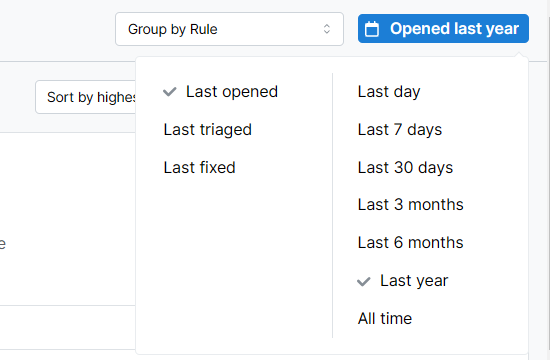
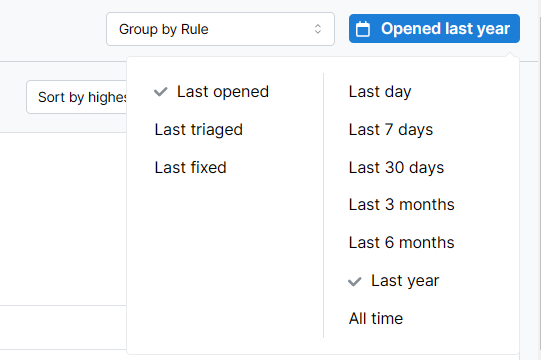
edit Findings page

diff --git a/docs/semgrep-code/findings.md b/docs/semgrep-code/findings.md
@@ -45,16 +45,16 @@ To view your findings in the Pre-production backlog:
 The page structure of the Production backlog and Pre-production tabs are identical. These pages consist of:
 
 - The **top bar**, where you can set the page's grouping view and [time period](#time-period-and-triage).
-- The **filter panel**, which you can use to group and filter for specific findings
+- The **filter panel**, which you can use to group and filter for specific findings.
 - Information about findings identified by Semgrep Code. Each finding in the list includes:
-  - The name and description of the rule used to generate the finding
-  - The name of the project
-  - A link to the commit where the finding was first identified
-  - A link to the lines of code where the finding was most recently seen
+  - The name and description of the rule used to generate the finding.
+  - The name of the project.
+  - A link to the commit where the finding was first identified.
+  - A link to the lines of code where the finding was most recently seen.
 
 ### Group findings
 
-By default, Semgrep groups all of the findings by the rule Semgrep used to match the code. This view is called the **Group by rule** view.
+By default, Semgrep groups all of the findings by the rule Semgrep used to match the code. This view is called the **Group by Rule** view.
 
 Semgrep sorts findings by severity. For a given severity, Semgrep further sorts findings as follows:
 
@@ -87,17 +87,15 @@ Use filters to narrow down your results. The following criteria are available fo
 
 | Filter                 | Description  |
 | ---------------------  | ------------ |
-| **Projects**           | Filter by repositories connected to Semgrep AppSec Platform. |
-| **Branches**           | Filter by findings in different Git branches. |
-| **Teams**              | Filter for findings in projects to which the specified teams are associated with. Available only to organizations with RBAC enabled. |
+| **Projects and branches** | Filter by repositories connected to Semgrep AppSec Platform and by findings in different Git branches. |
 | **Tags**               | Filter for findings based on the tags associated with the project. |
 | **Status**             | Filter the triage state of a finding. Refer to [Triage statuses](/semgrep-code/triage-remediation#triage-statuses) to understand triage states. You can filter findings with a status of **Ignored** further by reason: **False positive**, **Acceptable risk**, **No time to fix**, or **No triage reason**. |
 | **Severity**           | Filter by the severity of a finding. Severity is computed based on the values assigned for [Likelihood](/contributing/contributing-to-semgrep-rules-repository/#likelihood) and [Impact](/contributing/contributing-to-semgrep-rules-repository/#impact) by the rule's author. Possible values: <ul><li>Low</li><li>Medium</li><li>High</li></ul> |
 | **Confidence**         | Filter by the likelihood of the rule to detect true positives. The higher the confidence, the more true positives the rule may detect. |
-| **Pro findings**       | Filter for findings identified using Semgrep Pro rules. Also includes findings originating from cross-file or cross-function analysis. |
+| **Pro findings only**       | Filter for findings identified using Semgrep Pro rules. Also includes findings originating from cross-file or cross-function analysis. |
 | **Category**           | Filter by the type of security issue or vulnerability the rule detects, such as `security`, `correctness`, and `maintainability`. You can select more than one category at a time. See [Finding categories](#finding-categories) for information on how Semgrep categorizes your findings. |
-| **Component**          | Filter by [Semgrep Assistant component tags](/semgrep-assistant/overview#component-tags). Semgrep Assistant uses AI to categorize the file where the finding was identified based on its function, such as payments, user authentication, and infrastructure. |
-| **Recommendation**     | Filter by recommendation offered by Semgrep Assistant's auto-triage feature. Possible values: <ul><li>Fix</li><li>Ignore</li></ul> |
+| **Assistant risk category** | Filter for findings based on Assistant's assessment of risk level of files based on the type of code identified. High-risk files contain sensitive information, such as authorization and authentication details, while low-risk files may be things like test files. You can further filter by file type, such as **payments** or **tests**. |
+| **Assistant autotriage** | Filter by whether [Assistant autotriage](/semgrep-assistant/overview#auto-triage) has determined the finding to be a **True positive** or **False positive**.  |
 | **Action**             | Filter by monitoring, commenting, or blocking rules in your Policies. |
 | **Rule**               | Filter by rules included in your Policies page. You can select more than one rule or ruleset for filtering. |
 | **Ruleset**            | Filter by the ruleset name where rules that match the code belong. More than one rule or ruleset can be selected for filtering. |
@@ -114,37 +112,16 @@ A finding can be categorized in two ways:
 
     Semgrep rules provide a metadata schema to identify these common categories. Semgrep findings include a `message` field that describes the security issue or bug found in matching code. Additionally, findings can provide a `fix` field that fixes the issue by creating a suggestion within your source code management (SCM) tool, such as GitHub, GitLab, and Bitbucket.
 2. **Finding categorization based on the validity of the match**:
-    <dl>
-       <dt>True positive</dt>
-       <dd>Rules are written to match a certain code pattern. A true positive is a genuine match. The rule is capturing the code as intended.</dd>
-       <dt>False positive</dt>
-       <dd>
-        A false positive is a mismatch between the intended purpose of the rule and the code it matched. A finding is generated but does not meet the rule's intended need. Rules with a high false positivity rate are said to be <strong>noisy</strong>.
-       </dd>
-       <dt>False negative</dt>
-       <dd>
-        A false negative is a finding that should have been found by a rule, but was not. This can happen for two reasons:
-        <ul>
-            <li>A flaw in the rule's logic. See <a href="/docs/reporting-false-negatives">Reporting false negatives</a>.</li>
-            <li>A bug within Semgrep itself. See the list of <a href="https://github.com/semgrep/semgrep/issues">Semgrep issues</a> to file a bug report.</li>
-        </ul>
-        </dd>
-    </dl>
+    - **True positive**: Rules are written to match a certain code pattern. A true positive is a genuine match. The rule is capturing the code as intended.
+    - **False positive**: A false positive is a mismatch between the intended purpose of the rule and the code it matched. A finding is generated but does not meet the rule's intended need. Rules with a high false positivity rate are said to be **noisy**.
+    - **False negative**: A false negative is a finding that should have been found by a rule, but was not. This can happen for two reasons:
+      1. A flaw in the rule's logic. See <a href="/docs/reporting-false-negatives">Reporting false negatives</a>.
+      2. A bug within Semgrep itself. See the list of <a href="https://github.com/semgrep/semgrep/issues">Semgrep issues</a> to file a bug report.
 
 :::tip
 You can identify findings categorized under **Security** by their badge.
 ![Screenshot of security badge](/img/findings-security-badge.png#md-width)
 :::
-
-### Display findings reported in a specific time frame
-
-By default, the **Code** page displays your results from all time. To display findings reported during a specific time frame, click the <i class="fa-solid fa-calendar-days"></i> **All time** button and select the preferred period. The following options are available:
-
-  - All time
-  - Last 1 year
-  - Last 1 month
-  - Last 7 days
-  - Last 1 day
 
 ### View findings details about a specific finding
 

diff --git a/src/components/procedure/_export-findings-csv.md b/src/components/procedure/_export-findings-csv.md
@@ -1,4 +1,4 @@
-You can export findings to a **CSV** file. Semgrep can export up to **10,000 most recent findings**. For findings greater than 10,000, you must use the [<i class="fas fa-external-link fa-xs"></i> API](https://semgrep.dev/api/v1/docs/).
+You can export findings to a **CSV** file. Semgrep can export up to **10,000 most recent findings**. To export more than 10,000 finds, you must use the [<i class="fas fa-external-link fa-xs"></i> API](https://semgrep.dev/api/v1/docs/).
 
 Semgrep exports all findings to the CSV file regardless of the filters you apply on the page.
 

diff --git a/src/components/concept/_time-period-filters.md b/src/components/concept/_time-period-filters.md
@@ -11,12 +11,12 @@ The following filters are available:
   - Last triaged
   - Last fixed
 - Time period:
-  - Last 1 day
+  - Last day
   - Last 7 days
-  - Last 1 month
+  - Last 30 days
   - Last 3 months
   - Last 6 months
-  - Last 1 year
+  - Last year
   - All time
 
 ![Time period and status filters](/img/findings-filters.png#sm-width)
